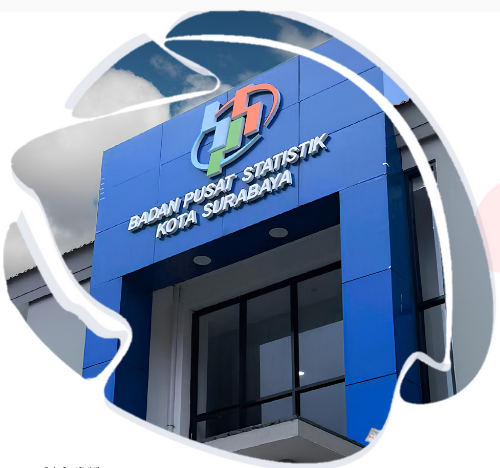
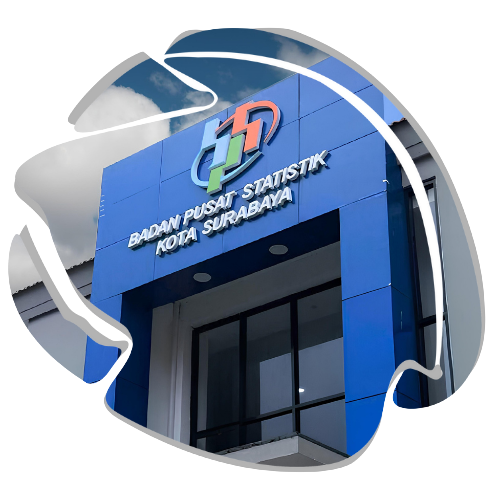
perubahan landing page

diff --git a/apps/templates/index.html b/apps/templates/index.html
@@ -9,7 +9,7 @@
     <link rel="preconnect" href="https://fonts.gstatic.com" />
     <link href="https://fonts.googleapis.com/css2?family=Poppins:wght@100;200;300;400;500;600;700;800;900&display=swap" rel="stylesheet" />
 
-    <title>Let's Start</title>
+    <title>Aastabaya</title>
 
     <!-- Bootstrap core CSS -->
     <link href="{% static 'src/templatemo_562_space_dynamic/vendor/bootstrap/css/bootstrap.min.css' %}" rel="stylesheet" />
@@ -80,7 +80,7 @@
                   <h6 class="mt-3">Aplikasi Statistik Kota Surabaya</h6>
                   <p>Aastabaya merupakan platform yang menyajikan data dan indikator strategis Kota Surabaya, meliputi inflasi, IPM, kemiskinan, gini ratio, ketenagakerjaan, PDRB, dan ekonomi daerah secara akurat dan terkini.</p>
                 </div>
-                <a class="start-btn" href="login">Start Now</a>
+                <a class="start-btn" href="{% url 'login' %}">Start Now</a>
               </div>
               <div class="col-lg-6">
                 <div class="right-image wow fadeInRight" data-wow-duration="1s" data-wow-delay="0.5s">
@@ -98,7 +98,7 @@
         <div class="row">
           <div class="col-lg-4">
             <div class="left-image wow fadeIn" data-wow-duration="1s" data-wow-delay="0.2s">
-              <img src="{% static 'src/templatemo_562_space_dynamic/assets/images/about-left-image.png' %}" alt="person graphic" />
+              <img src="{% static 'src/templatemo_562_space_dynamic/assets/images/about-left-astabaya.png' %}" alt="person graphic" />
             </div>
           </div>
           <div class="col-lg-8 align-self-center">
@@ -107,66 +107,66 @@
                 <div class="col-lg-6">
                   <div class="item wow fadeIn" data-wow-duration="1s" data-wow-delay="0.5s">
                     <div class="icon">
-                      <img src="{% static 'src/templatemo_562_space_dynamic/assets/images/service-icon-01.png' %}" alt="reporting" />
+                      <img src="{% static 'src/templatemo_562_space_dynamic/assets/images/inflasi.png' %}" alt="reporting" />
                     </div>
                     <div class="right-text">
-                      <h4>Data Analysis</h4>
-                      <p>Lorem ipsum dolor sit amet, ctetur aoi adipiscing eliter</p>
+                      <h4>Inflasi</h4>
+                      <p>Perkembangan harga kebutuhan masyarakat Surabaya.</p>
                     </div>
                   </div>
                 </div>
                 <div class="col-lg-6">
                   <div class="item wow fadeIn" data-wow-duration="1s" data-wow-delay="0.7s">
                     <div class="icon">
-                      <img src="{% static 'src/templatemo_562_space_dynamic/assets/images/service-icon-02.png' %}" alt="" />
+                      <img src="{% static 'src/templatemo_562_space_dynamic/assets/images/IPM.png' %}" alt="" />
                     </div>
                     <div class="right-text">
-                      <h4>Data Reporting</h4>
-                      <p>Lorem ipsum dolor sit amet, ctetur aoi adipiscing eliter</p>
+                      <h4>IPM</h4>
+                      <p>Kualitas hidup penduduk dari sisi pendidikan dan kesehatan.</p>
                     </div>
                   </div>
                 </div>
                 <div class="col-lg-6">
                   <div class="item wow fadeIn" data-wow-duration="1s" data-wow-delay="0.9s">
                     <div class="icon">
-                      <img src="{% static 'src/templatemo_562_space_dynamic/assets/images/service-icon-03.png' %}" alt="" />
+                      <img src="{% static 'src/templatemo_562_space_dynamic/assets/images/kemiskinan.png' %}" alt="" />
                     </div>
                     <div class="right-text">
-                      <h4>Web Analytics</h4>
-                      <p>Lorem ipsum dolor sit amet, ctetur aoi adipiscing eliter</p>
+                      <h4>Kemiskinan</h4>
+                      <p>Kondisi kesejahteraan dan jumlah penduduk miskin.</p>
                     </div>
                   </div>
                 </div>
                 <div class="col-lg-6">
                   <div class="item wow fadeIn" data-wow-duration="1s" data-wow-delay="1.1s">
                     <div class="icon">
-                      <img src="{% static 'src/templatemo_562_space_dynamic/assets/images/service-icon-04.png' %}" alt="" />
+                      <img src="{% static 'src/templatemo_562_space_dynamic/assets/images/gini-ratio.png' %}" alt="" />
                     </div>
                     <div class="right-text">
-                      <h4>SEO Suggestions</h4>
-                      <p>Lorem ipsum dolor sit amet, ctetur aoi adipiscing eliter</p>
+                      <h4>Gini Ratio</h4>
+                      <p>Tingkat ketimpangan pendapatan penduduk.</p>
                     </div>
                   </div>
                 </div>
                 <div class="col-lg-6">
                   <div class="item wow fadeIn" data-wow-duration="1s" data-wow-delay="1.1s">
                     <div class="icon">
-                      <img src="{% static 'src/templatemo_562_space_dynamic/assets/images/service-icon-04.png' %}" alt="" />
+                      <img src="{% static 'src/templatemo_562_space_dynamic/assets/images/Ketenagakerjaan.png' %}" alt="" />
                     </div>
                     <div class="right-text">
-                      <h4>SEO Suggestions</h4>
-                      <p>Lorem ipsum dolor sit amet, ctetur aoi adipiscing eliter</p>
+                      <h4>ketenagakerjaan</h4>
+                      <p>Informasi pasar kerja dan pengangguran.</p>
                     </div>
                   </div>
                 </div>
                 <div class="col-lg-6">
                   <div class="item wow fadeIn" data-wow-duration="1s" data-wow-delay="1.1s">
                     <div class="icon">
-                      <img src="{% static 'src/templatemo_562_space_dynamic/assets/images/service-icon-04.png' %}" alt="" />
+                      <img src="{% static 'src/templatemo_562_space_dynamic/assets/images/PDRB.png' %}" alt="" />
                     </div>
                     <div class="right-text">
-                      <h4>SEO Suggestions</h4>
-                      <p>Lorem ipsum dolor sit amet, ctetur aoi adipiscing eliter</p>
+                      <h4>PDRB</h4>
+                      <p>Nilai ekonomi Surabaya dan pertumbuhan daerah.</p>
                     </div>
                   </div>
                 </div>
@@ -182,7 +182,7 @@
         <div class="row">
           <div class="col-lg-6 align-self-center wow fadeInLeft" data-wow-duration="1s" data-wow-delay="0.2s">
             <div class="left-image">
-              <img src="{% static 'src/templatemo_562_space_dynamic/assets/images/services-left-image.png' %}" alt="" />
+              <img src="{% static 'src/templatemo_562_space_dynamic/assets/images/services-left-astabaya.png' %}" alt="" />
             </div>
           </div>
           <div class="col-lg-6 wow fadeInRight" data-wow-duration="1s" data-wow-delay="0.2s">
@@ -279,7 +279,7 @@
       <div class="container">
         <div class="row">
           <div class="col-lg-12 wow fadeIn" data-wow-duration="1s" data-wow-delay="0.25s">
-            <p>© Copyright 2025 Dimas & Friends. All Rights Reserved.</p>
+            <p>© Copyright 2025 BPS Kota Surabaya. All Rights Reserved.</p>
           </div>
         </div>
       </div>
